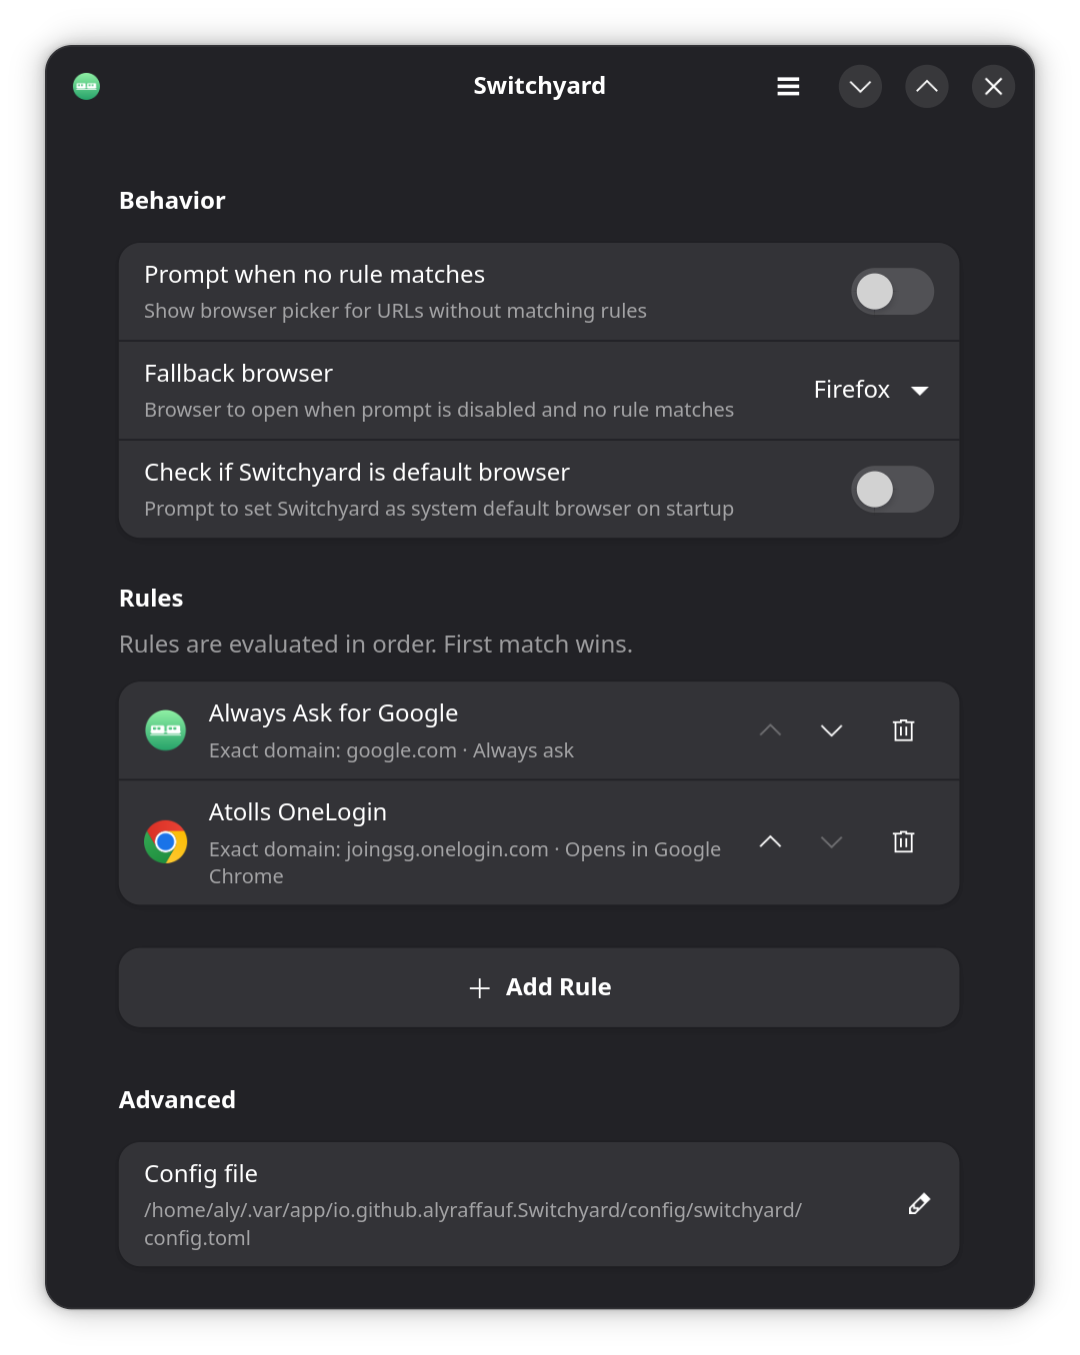
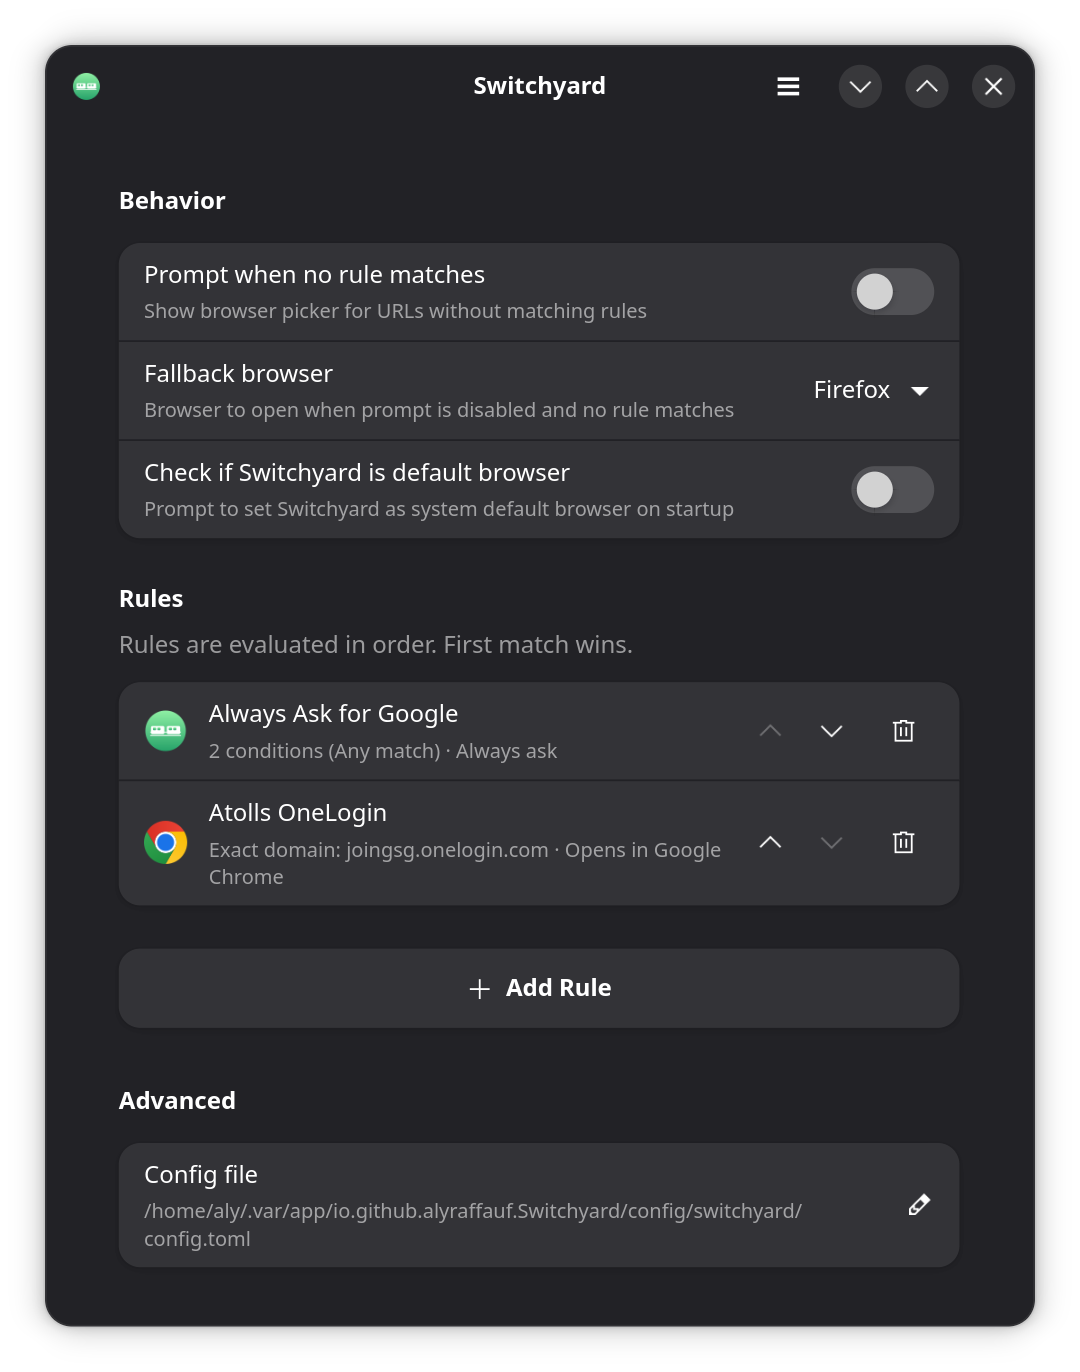
update + add screenshots

diff --git a/README.md b/README.md
@@ -10,6 +10,10 @@ A configurable default browser for Linux. Route URLs to different browsers based
   <img src="docs/images/switchyard.png" alt="Switchyard Settings" width="600">
 </p>
 
+<p align="center">
+  <img src="docs/images/switchyard-rulesedit.png" alt="Switchyard Rule Editor" width="600">
+</p>
+
 ## Features
 
 - **Rule-based routing**: Automatically open URLs in specific browsers based on patterns
